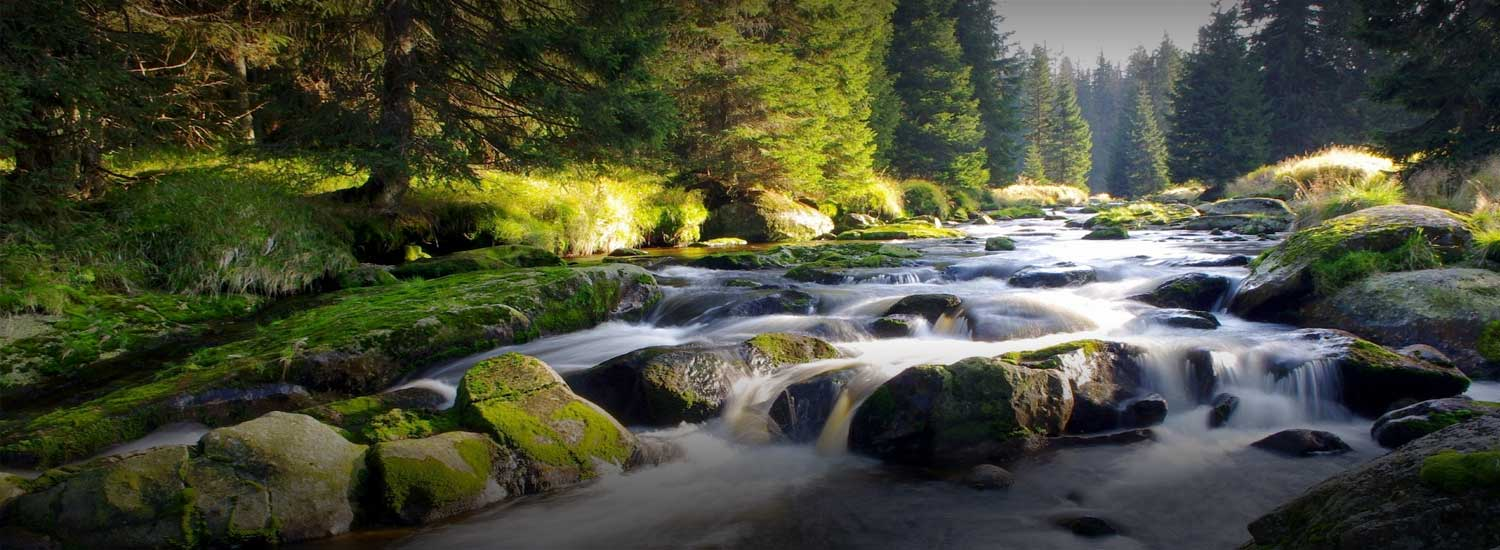
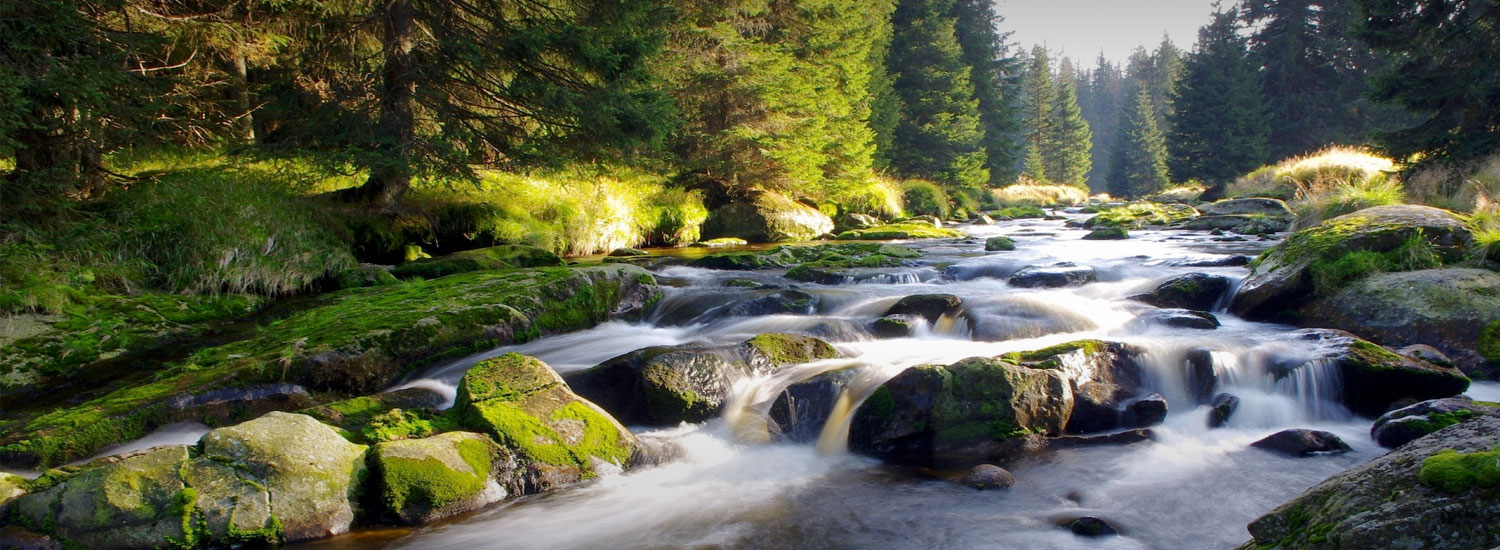
css

diff --git a/app/assets/stylesheets/main.css.scss b/app/assets/stylesheets/main.css.scss
@@ -134,7 +134,7 @@ footer {
 }
 
 #myCarouselHome {
-  margin: 20px auto;
+  margin: 0px auto;
   img {
     max-width: 100%;
     min-width: 100%;

diff --git a/app/models/company.rb b/app/models/company.rb
@@ -14,6 +14,9 @@
 #
 
 class Company < ActiveRecord::Base
+  extend FriendlyId
+  friendly_id :name
+
   attr_accessible :name, :website, :acquired, :about, :testimonial
 
   has_many :boxes
